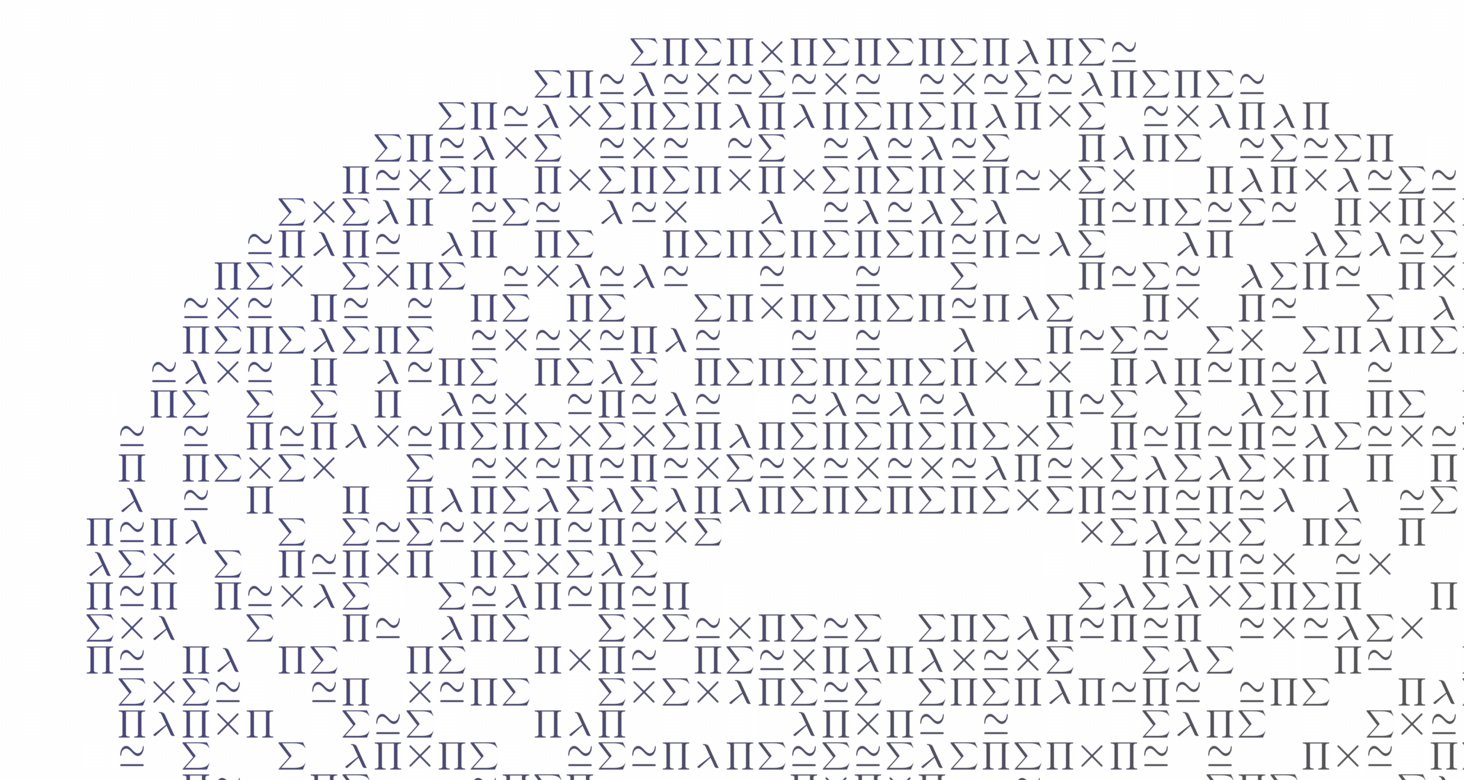
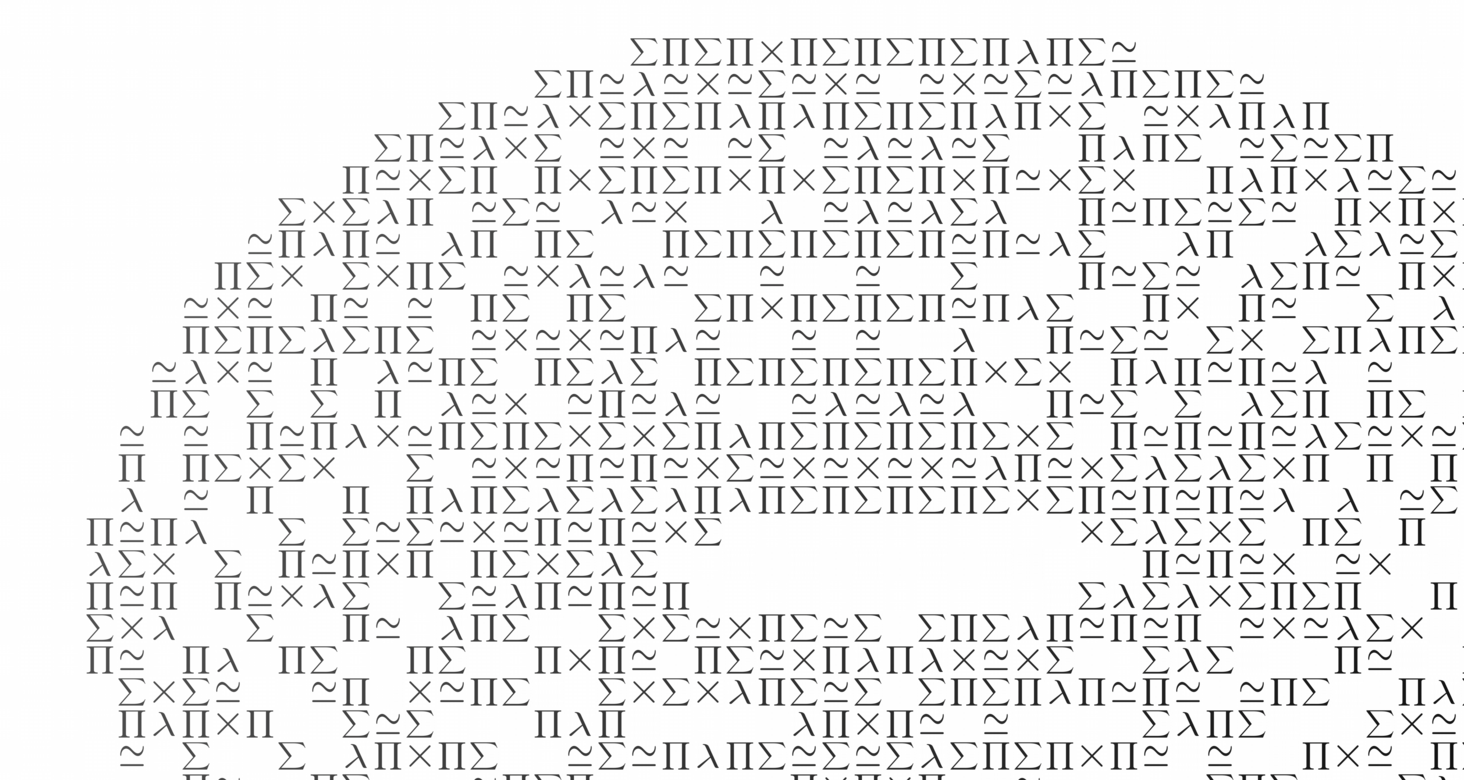
Blue Steve with dark gray torus

diff --git a/opt-color.tex b/opt-color.tex
@@ -1,7 +1,7 @@
 % Options for color book
 
 % BACKGROUND OF COVER PAGE
-\def\OPTcovercolor{0.375,0,0,0.5} % CMYK
+\def\OPTcovercolor{0.375,0,0,0.625} % CMYK
 \def\OPTcovertextcolor{0,0,0,0.125}
 
 % LINK COLORS
